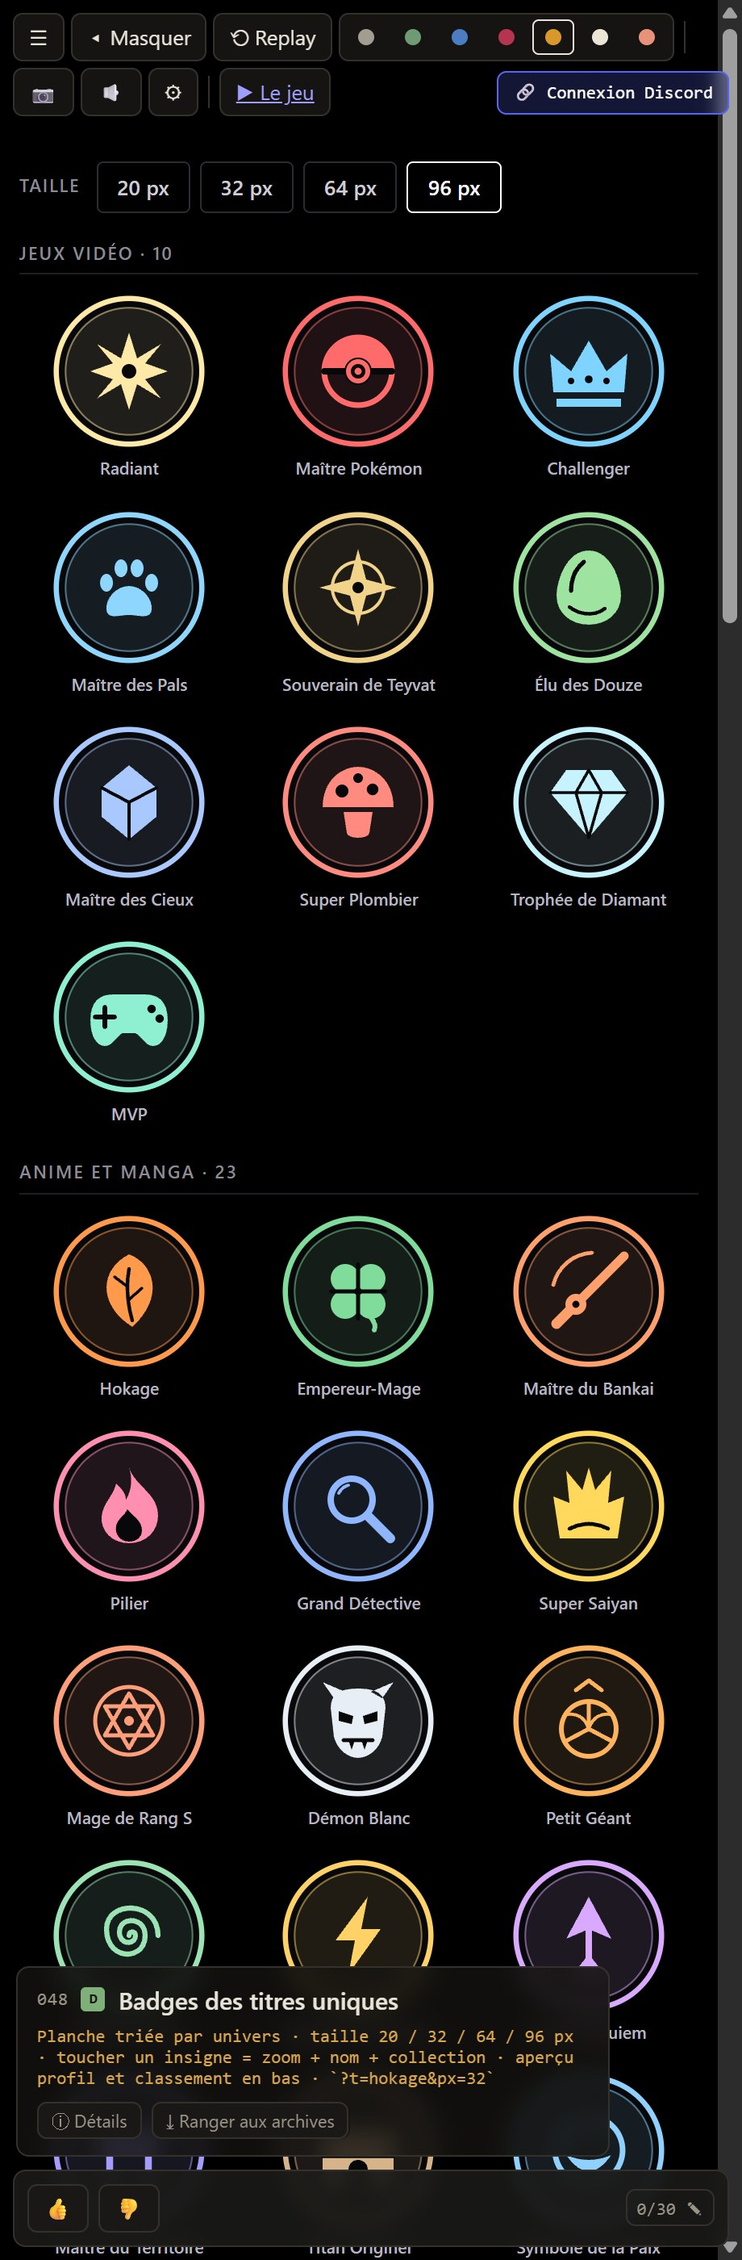
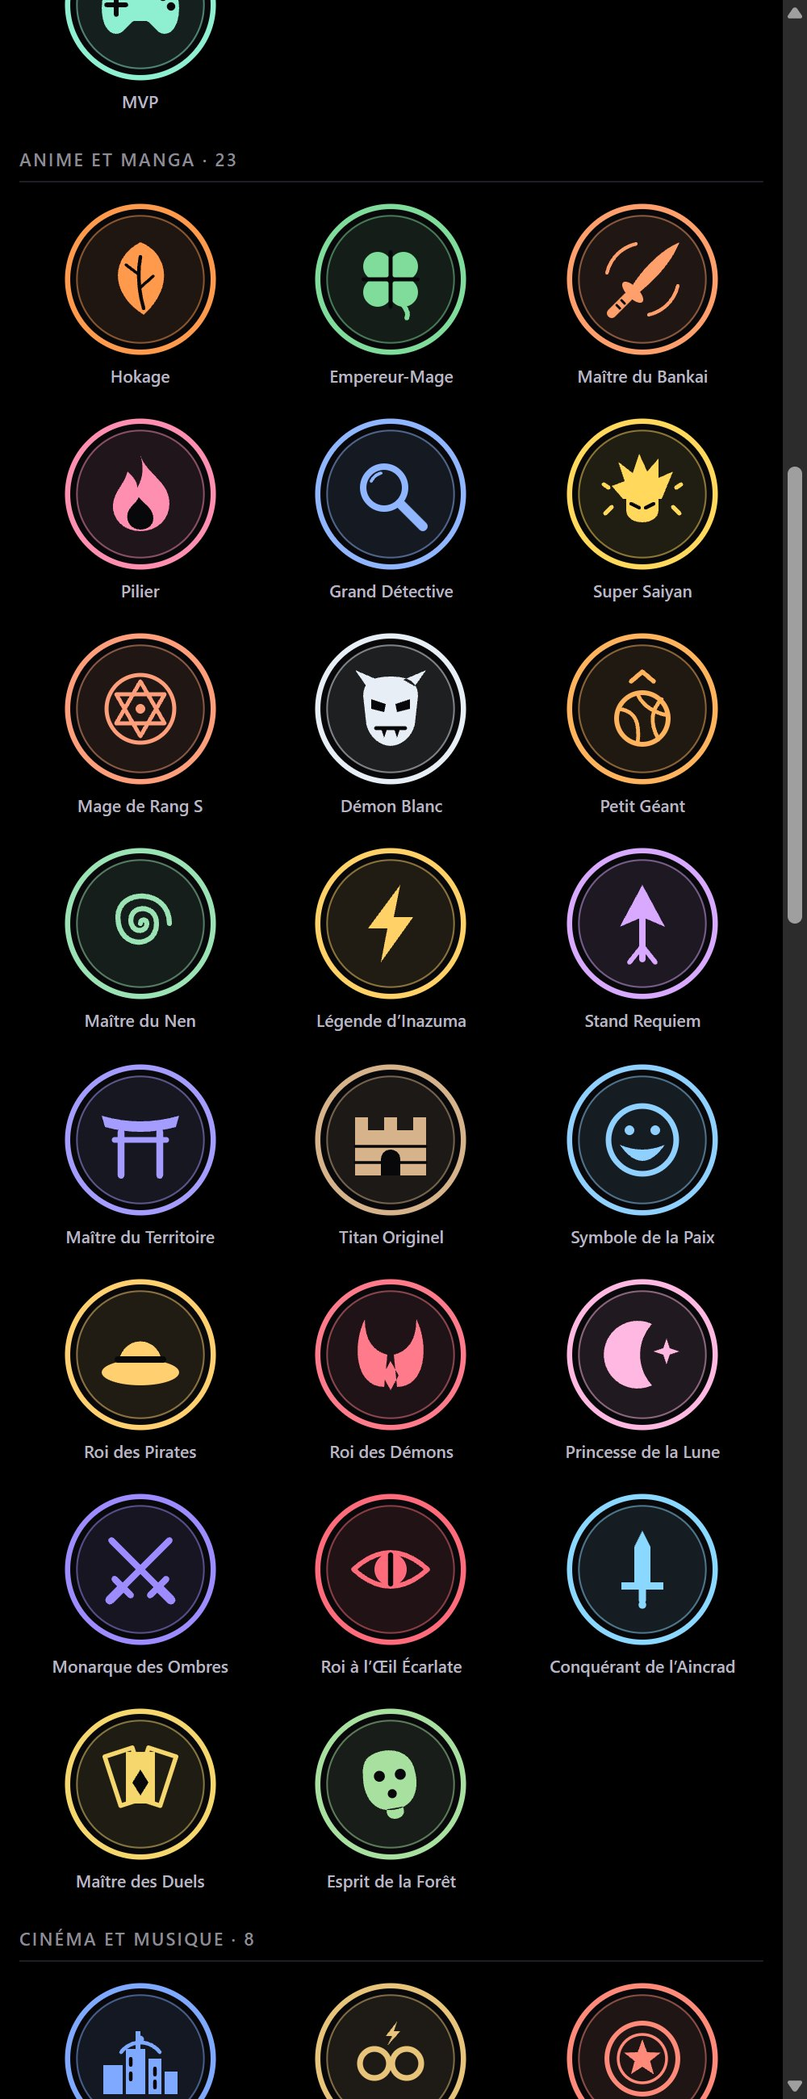
feat(badges): les badges du jeu en médaillons (gabarit du labo 048), 83 insignes des titres uniques repolis, section « Badges du jeu » au labo (patch v2.1.36)
Claude-Session: https://claude.ai/code/session_01VHcc2VtJ5Qtv191cfDaMbM

diff --git a/src/experiments/048-badges-titres-uniques/symboles.ts b/src/experiments/048-badges-titres-uniques/symboles.ts
@@ -3,27 +3,7 @@
  * ±24. Le médaillon (insigne()) les pose au centre dans la teinte du titre ; les « creux » sont en noir de médaillon.
  * Trait par défaut : 3, bouts ronds. Remplir = F / CF / EF ; trait = S / CS ; creux = K / CK / KS.
  */
-const NOIR = '#08080a';
-const F = (d: string) => `<path d="${d}" fill="currentColor" stroke="none"/>`;
-const S = (d: string, w = 3) => `<path d="${d}" stroke-width="${w}"/>`;
-const K = (d: string) => `<path d="${d}" fill="${NOIR}" stroke="none"/>`;
-const KS = (d: string, w = 2) => `<path d="${d}" stroke="${NOIR}" stroke-width="${w}"/>`;
-const CF = (x: number, y: number, r: number) => `<circle cx="${x}" cy="${y}" r="${r}" fill="currentColor" stroke="none"/>`;
-const CS = (x: number, y: number, r: number, w = 3) => `<circle cx="${x}" cy="${y}" r="${r}" stroke-width="${w}"/>`;
-const CK = (x: number, y: number, r: number) => `<circle cx="${x}" cy="${y}" r="${r}" fill="${NOIR}" stroke="none"/>`;
-const EF = (x: number, y: number, rx: number, ry: number) => `<ellipse cx="${x}" cy="${y}" rx="${rx}" ry="${ry}" fill="currentColor" stroke="none"/>`;
-const rot = (a: number, inner: string, cx = 0, cy = 0) => `<g transform="rotate(${a} ${cx} ${cy})">${inner}</g>`;
-const poly = (n: number, R: number, a0 = -90) =>
-  Array.from({ length: n }, (_, i) => {
-    const a = ((a0 + (360 / n) * i) * Math.PI) / 180;
-    return `${i ? 'L' : 'M'}${(R * Math.cos(a)).toFixed(1)},${(R * Math.sin(a)).toFixed(1)}`;
-  }).join(' ') + 'Z';
-const star = (n: number, R: number, r: number, a0 = -90) =>
-  Array.from({ length: n * 2 }, (_, i) => {
-    const a = ((a0 + (180 / n) * i) * Math.PI) / 180;
-    const rr = i % 2 ? r : R;
-    return `${i ? 'L' : 'M'}${(rr * Math.cos(a)).toFixed(1)},${(rr * Math.sin(a)).toFixed(1)}`;
-  }).join(' ') + 'Z';
+import { F, S, K, KS, CF, CS, CK, EF, rot, poly, star } from '../../game/badgeArt';
 const SIX = 'M5,-12 C-4,-10 -7,-2 -7,5 C-7,10 -4,13 0,13 C4,13 7,10 7,6 C7,2 4,-1 0,-1 C-3,-1 -6,1 -7,4';
 
 export const SYMBOLES: Record<string, string> = {
@@ -41,16 +21,23 @@ export const SYMBOLES: Record<string, string> = {
   // --- anime et manga
   leaf: F('M0,-23 C16,-17 22,4 2,22 C-20,8 -18,-14 0,-23Z') + KS('M0,-14 C-2,-4 -1,8 2,18', 2.2) + KS('M-1,-3 L-9,-9 M0,5 L8,-2', 1.8),
   clover: CF(-8, -8, 9) + CF(8, -8, 9) + CF(-8, 8, 9) + CF(8, 8, 9) + KS('M-17,0 H17 M0,-17 V17', 2.4) + S('M6,14 Q12,20 10,24', 3),
-  katana: S('M21,-21 L-6,6', 8) + CF(-8, 8, 7) + S('M-9,9 L-20,20', 7.5) + CK(-8, 8, 2.4),
+  katana:
+    F('M23,-23 C13,-19 1,-8 -7,5 L-3,9 C7,1 18,-10 23,-23Z') +
+    rot(-45, EF(-6, 8, 3.6, 8.5), -6, 8) +
+    S('M-9,11 L-19,21', 6) + KS('M-13,13 L-11,15 M-16,16 L-14,18', 1.6) +
+    S('M-22,-4 A24,24 0 0 1 -4,-22', 2.2) + S('M22,4 A24,24 0 0 1 4,22', 2.2),
   flame: F('M0,-24 C4,-12 18,-8 18,6 C18,16 10,23 0,23 C-10,23 -18,16 -17,6 C-16,-2 -10,-6 -8,-14 C-4,-10 -2,-8 -2,-4 C2,-10 2,-18 0,-24Z') + K('M0,22 C-6,22 -9,17 -8,12 C-7,8 -3,6 -1,2 C3,7 8,9 8,15 C8,19 5,22 0,22Z'),
   magnifier: CS(-4, -4, 13, 4) + S('M6,6 L20,20', 6) + S('M-12,-8 A9,9 0 0 1 -6,-13', 2),
-  spikes: F('M-4,24 C-14,10 -8,2 -14,-6 L-4,-4 L-10,-18 L2,-10 L2,-24 L10,-8 L18,-14 L14,2 L20,6 C14,10 12,16 8,24Z') + K('M-2,22 C-6,14 -2,10 0,4 C4,10 6,14 4,22Z'),
+  spikes:
+    F('M-12,3 L-19,-5 L-11,-8 L-15,-20 L-6,-13 L-2,-25 L3,-14 L10,-22 L10,-10 L19,-14 L12,3Z') +
+    F('M-10,1 H10 V10 C10,20 -10,20 -10,10Z') + KS('M-7,6 L-2,8.5 M7,6 L2,8.5', 2.2) +
+    S('M-23,12 L-19,8 M23,12 L19,8 M-24,-6 L-21,-4 M24,-6 L21,-4', 2.6),
   magiccircle: CS(0, 0, 21, 2.5) + S('M0,-17 L15,9 L-15,9Z M0,17 L-15,-9 L15,-9Z', 2.5) + CF(0, 0, 3),
   oni:
     F('M-17,-8 C-17,-18 -9,-20 0,-20 C9,-20 17,-18 17,-8 L15,10 C13,18 6,23 0,23 C-6,23 -13,18 -15,10Z M-15,-14 L-22,-24 L-8,-18Z M15,-14 L22,-24 L8,-18Z') +
     K('M-12,-6 L-3,-3 L-4,2 L-12,0Z M12,-6 L3,-3 L4,2 L12,0Z M-6,12 L-4,18 L-2,12Z M2,12 L4,18 L6,12Z') +
     KS('M-9,12 H9', 2.4),
-  volley: CS(0, 5, 17, 3) + S('M0,5 V-12 M0,5 L-15,13 M0,5 L15,13', 2.6) + S('M-14,-4 C-6,-5 -2,-1 0,5 M14,-4 C6,-5 2,-1 0,5', 2) + S('M-8,-19 L0,-25 L8,-19', 2.6),
+  volley: CS(0, 6, 16, 3) + S('M-3,-9 C0,-2 8,3 16,4 M-15,0 C-6,1 -1,6 -3,22 M12,-6 C6,0 4,8 10,19', 2.4) + S('M-7,-17 L0,-23 L7,-17', 2.8),
   spiral: S('M0,0 C0,-3 4,-3 4,0 C4,6 -6,6 -6,-2 C-6,-12 10,-12 10,0 C10,16 -14,16 -14,-4 C-14,-22 18,-22 18,0', 3.2),
   bolt: F('M6,-24 L-14,3 H-2 L-6,24 L14,-4 H2Z'),
   arrow: F('M0,-24 L14,2 L0,-4 L-14,2Z') + S('M0,-4 V22', 4) + S('M-8,24 L0,14 L8,24', 3),
@@ -67,14 +54,19 @@ export const SYMBOLES: Record<string, string> = {
   kodama:
     rot(-10, F('M-12,-18 C-4,-24 14,-22 16,-8 C18,6 12,16 0,16 C-14,16 -18,4 -16,-8 C-16,-12 -14,-16 -12,-18Z M-5,15 C-8,24 8,24 5,15Z') + CK(-6, -6, 3.4) + CK(7, -5, 3.4) + CK(0, 6, 2.8)),
   // --- cinéma et musique
-  skyline: F('M-22,22 V2 H-10 V22Z M-8,22 V-10 H4 V22Z M-3,-10 V-22 H1 V-10Z M6,22 V-2 H22 V22Z') + KS('M-2,-4 V2 M-2,8 V14 M13,6 V12', 2.4),
+  skyline:
+    S('M-12,-4 A15,15 0 0 1 12,-4', 2.4) + CF(0, -12, 2.2) +
+    F('M-23,22 V4 H-11 V22Z M-9,22 V-6 H3 V22Z M-3,-6 V-17 H0 V-6Z M5,22 V0 H13 V22Z M15,22 V8 H23 V22Z') +
+    KS('M-6,0 V4 M-6,9 V13 M9,6 V10 M9,14 V18', 2.2),
   glasses: CS(-10, 3, 9, 3.6) + CS(10, 3, 9, 3.6) + S('M-1,1 H1', 3) + F('M4,-23 L-3,-14 H1 L-2,-8 L6,-17 H2Z'),
   starshield: CS(0, 0, 22, 3) + CS(0, 0, 15, 1.8) + F(star(5, 12, 5)),
   vinyl: CS(0, 0, 22, 3) + CS(0, 0, 15, 1.6) + F('M0,-9 L6.5,0 L0,9 L-6.5,0Z') + S('M-17,-9 A19,19 0 0 1 -9,-17', 2),
   note: CF(-10, 15, 6) + CF(10, 11, 6) + S('M-4,15 V-14 M16,11 V-18', 3.4) + F('M-4,-14 L16,-18 V-10 L-4,-6Z'),
   mic: F('M-8,-21 a8,8 0 0 1 16,0 V0 a8,8 0 0 1 -16,0Z') + KS('M-8,-13 H8 M-8,-7 H8', 1.6) + S('M-14,-4 V0 A14,14 0 0 0 14,0 V-4', 3) + S('M0,14 V22 M-7,22 H7', 3),
-  gramophone: F('M-6,6 L8,-22 Q26,-22 24,0 Q22,10 8,10Z') + KS('M10,-14 Q16,-8 12,2', 2.2) + F('M-22,12 H4 V22 H-22Z') + S('M-8,8 V12', 4),
-  statuette: CF(0, -19, 4.5) + F('M-5,-13 H5 C8,-8 6,0 5,6 L6,14 H-6 L-5,6 C-6,0 -8,-8 -5,-13Z M-10,14 H10 V18 H-10Z M-14,18.5 H14 V23 H-14Z'),
+  gramophone:
+    F('M5.8,-23.2 L24.2,-4.8 L-7,6Z') + rot(45, EF(15, -14, 13, 5.6), 15, -14) + rot(45, K(`M6,-14 a9,3 0 1 0 18,0 a9,3 0 1 0 -18,0Z`), 15, -14) +
+    S('M-7,6 V13', 4) + F('M-19,14 H5 V22 H-19Z'),
+  statuette: CF(0, -18, 5.2) + F('M-7,-11 H7 C10,-4 6,2 5,7 L8,14 H-8 L-5,7 C-6,2 -10,-4 -7,-11Z M-11,14 H11 V18 H-11Z M-16,18.5 H16 V23 H-16Z') + KS('M-3,-6 V3 M3,-6 V3', 1.6),
   // --- sports de combat
   glove: F('M-16,-4 C-16,-18 -4,-22 6,-20 C16,-18 20,-8 18,2 C17,8 12,10 6,10 H-12Z M-14,13 H8 V22 H-14Z') + KS('M-6,-6 C0,-6 6,-4 8,2', 2.6),
   belt: F('M-24,-7 H-10 V7 H-24Z M10,-7 H24 V7 H10Z') + EF(0, 0, 13, 19) + CK(0, 0, 8) + CS(0, 0, 4.5, 2.2) + KS('M-17,0 H-24 M17,0 H24', 1),
@@ -104,10 +96,13 @@ export const SYMBOLES: Record<string, string> = {
   helmet: F('M-22,6 C-22,-12 -10,-22 4,-20 C16,-18 24,-8 24,4 V12 H-8 C-14,12 -22,12 -22,6Z M-8,15 H20 V21 H-8Z') + K('M6,-10 C14,-10 20,-6 22,0 V4 H2 C-2,4 -2,-10 6,-10Z') + KS('M-19,0 H-4', 2.6),
   tire: `<circle r="20" stroke-width="7" stroke-dasharray="5 4.2"/>` + CS(0, 0, 12, 2.2) + CS(0, 0, 6, 2.4) + CF(0, 0, 2.2),
   // --- nature et animaux
-  dino: F('M-14,22 C-14,12 -10,8 0,8 C10,8 14,12 14,22Z') + EF(-15, -2, 4, 7) + EF(-5, -11, 4, 7.5) + EF(5, -11, 4, 7.5) + EF(15, -2, 4, 7),
+  dino:
+    F('M-23,-2 C-23,-16 -9,-21 3,-19 C15,-17 24,-10 24,-2 V3 H-23Z') +
+    F('M-23,8 H21 C21,13 19,17 14,17 H-17 C-21,17 -23,13 -23,8Z') +
+    F('M-1,3 L2,9.5 L5,3Z M8,3 L11,9.5 L14,3Z M17,3 L19.5,8.5 L22,3Z') + CK(5, -9, 3.2) + CK(19, -8, 1.5),
   beetle: EF(0, 6, 12, 16) + CF(0, -14, 6) + KS('M0,-10 V22', 2) + S('M-12,0 L-22,-6 M-12,8 L-22,12 M-11,15 L-20,22 M12,0 L22,-6 M12,8 L22,12 M11,15 L20,22 M-3,-19 L-8,-24 M3,-19 L8,-24', 2.8),
   antlers: S('M-5,10 C-10,2 -16,-6 -15,-22 M-12,-3 L-22,-7 M-14,-13 L-8,-18', 3.4) + S('M5,10 C10,2 16,-6 15,-22 M12,-3 L22,-7 M14,-13 L8,-18', 3.4) + F('M-6,9 H6 L4,22 H-4Z'),
-  bird: F('M0,2 C-8,-14 -18,-14 -26,-8 C-20,-2 -14,4 -12,10 C-6,6 -3,8 0,14 C3,8 6,6 12,10 C14,4 20,-2 26,-8 C18,-14 8,-14 0,2Z M-3,10 L0,24 L3,10Z'),
+  bird: S('M-24,-8 C-14,-20 -5,-14 0,2 C5,-14 14,-20 24,-8', 4.6) + F('M-4.5,0 C-4.5,-6 4.5,-6 4.5,0 L0,23Z') + F('M-9,10 L0,18 L9,10 L0,22Z'),
   snake: S('M-14,-18 C8,-24 14,-6 -2,-2 C-18,2 -14,18 10,16', 5.4) + EF(14, 16, 5.5, 4.2) + S('M19,16 L24,18', 1.8) + CK(14, 15, 1.2),
   fish: F('M-22,0 C-12,-14 8,-14 14,0 C8,14 -12,14 -22,0Z M12,0 L24,-12 V12Z') + CK(-13, -2, 2.4) + KS('M-4,-10 C-1,-4 -1,4 -4,10', 2),
   burr: Array.from({ length: 12 }, (_, k) => rot(k * 30, S('M0,-12 V-23', 3.2))).join('') + CF(0, 0, 14) + CK(0, 2, 6.5) + EF(0, 3, 3.6, 4.4),

diff --git a/src/game/badgeArt.ts b/src/game/badgeArt.ts
@@ -1,0 +1,71 @@
+/**
+ * MÉDAILLONS DES BADGES (27/11, labo 048 validé par Hugo et Tom) — UNE source du gabarit : disque noir, double filet,
+ * teinte en accent, symbole au centre. Utilisé par `badgeIcon()` (profil, atelier, succès) et par le labo 048 (83 titres
+ * uniques). Repère des symboles : centré en (0,0), tient dans ±24 ; trait 3, bouts ronds ; lisible à 20 px.
+ * Remplir = F / CF / EF ; trait = S / CS ; creux (noir du médaillon) = K / CK / KS. Aucun logo officiel.
+ */
+export const NOIR = '#08080a';
+export const F = (d: string) => `<path d="${d}" fill="currentColor" stroke="none"/>`;
+export const S = (d: string, w = 3) => `<path d="${d}" stroke-width="${w}"/>`;
+export const K = (d: string) => `<path d="${d}" fill="${NOIR}" stroke="none"/>`;
+export const KS = (d: string, w = 2) => `<path d="${d}" stroke="${NOIR}" stroke-width="${w}"/>`;
+export const CF = (x: number, y: number, r: number) => `<circle cx="${x}" cy="${y}" r="${r}" fill="currentColor" stroke="none"/>`;
+export const CS = (x: number, y: number, r: number, w = 3) => `<circle cx="${x}" cy="${y}" r="${r}" stroke-width="${w}"/>`;
+export const CK = (x: number, y: number, r: number) => `<circle cx="${x}" cy="${y}" r="${r}" fill="${NOIR}" stroke="none"/>`;
+export const EF = (x: number, y: number, rx: number, ry: number) => `<ellipse cx="${x}" cy="${y}" rx="${rx}" ry="${ry}" fill="currentColor" stroke="none"/>`;
+export const rot = (a: number, inner: string, cx = 0, cy = 0) => `<g transform="rotate(${a} ${cx} ${cy})">${inner}</g>`;
+export const poly = (n: number, R: number, a0 = -90) =>
+  Array.from({ length: n }, (_, i) => {
+    const a = ((a0 + (360 / n) * i) * Math.PI) / 180;
+    return `${i ? 'L' : 'M'}${(R * Math.cos(a)).toFixed(1)},${(R * Math.sin(a)).toFixed(1)}`;
+  }).join(' ') + 'Z';
+export const star = (n: number, R: number, r: number, a0 = -90) =>
+  Array.from({ length: n * 2 }, (_, i) => {
+    const a = ((a0 + (180 / n) * i) * Math.PI) / 180;
+    const rr = i % 2 ? r : R;
+    return `${i ? 'L' : 'M'}${(rr * Math.cos(a)).toFixed(1)},${(rr * Math.sin(a)).toFixed(1)}`;
+  }).join(' ') + 'Z';
+
+const FLAME = 'M0,-24 C4,-12 18,-8 18,6 C18,16 10,23 0,23 C-10,23 -18,16 -17,6 C-16,-2 -10,-6 -8,-14 C-4,-10 -2,-8 -2,-4 C2,-10 2,-18 0,-24Z';
+
+/** Le médaillon : `symbole` = SVG du symbole (repère ±24), `teinte` = couleur d'accent. `px` : taille en pixels (sinon 100 % du parent). */
+export function medaillon(symbole: string, teinte: string, px?: number, cls = 'bd'): string {
+  const dim = px ? ` width="${px}" height="${px}"` : '';
+  return (
+    `<svg class="${cls}" viewBox="-50 -50 100 100"${dim} aria-hidden="true" style="color:${teinte}">` +
+    `<circle r="47" fill="${NOIR}" stroke="currentColor" stroke-width="3.4"/>` +
+    `<circle r="41" fill="currentColor" fill-opacity=".1" stroke="currentColor" stroke-opacity=".5" stroke-width="1.1"/>` +
+    `<g transform="scale(1.04)" fill="none" stroke="currentColor" stroke-width="3" stroke-linecap="round" stroke-linejoin="round">${symbole}</g>` +
+    `</svg>`
+  );
+}
+
+/** Les 10 badges du jeu (src/core/cosmetics.ts BADGES) : symbole + teinte, loin des teintes de rareté (src/core/rarity.ts). */
+export const BADGE_ART: Record<string, { sym: string; teinte: string }> = {
+  // 10 boosters : un sachet serti, étoile au centre
+  first: { teinte: '#6fd1c1', sym: F('M-13,-21 H13 V21 H-13Z') + KS('M-13,-13 H13 M-13,14 H13', 2) + K(star(5, 8, 3.4, -90)) },
+  // 100 boosters : deux sachets, un devant l'autre
+  p100: { teinte: '#a3b5ff', sym: S('M-8,-21 H16 V14', 3) + F('M-16,-14 H8 V21 H-16Z') + KS('M-16,-7 H8 M-16,15 H8', 2) + CK(-4, 4, 3.2) },
+  // 1 000 boosters : la coupe
+  p1000: { teinte: '#f2a0c4', sym: F('M-11,-20 H11 V-6 C11,6 -11,6 -11,-6Z') + S('M-11,-16 H-18 C-18,-6 -15,-3 -11,-4 M11,-16 H18 C18,-6 15,-3 11,-4', 2.8) + S('M0,4 V13', 4) + F('M-10,15 H10 V21 H-10Z') },
+  // album complet : le livre ouvert
+  full: { teinte: '#8fdc95', sym: S('M0,-14 C-6,-19 -14,-19 -21,-16 V15 C-14,12 -6,12 0,17 C6,12 14,12 21,15 V-16 C14,-19 6,-19 0,-14Z M0,-14 V17', 3) + S('M-14,-8 H-7 M-14,-2 H-7 M7,-8 H14 M7,-2 H14', 2) },
+  // 5 × 6★ : l'étoile pleine
+  mythic: { teinte: '#e3d4ff', sym: F(star(5, 24, 10.5, -90)) + CK(0, 1, 3.6) },
+  // Bébou secret : le cadenas
+  secret: { teinte: '#c77dff', sym: S('M-9,-3 V-11 A9,9 0 0 1 9,-11 V-3', 3.4) + F('M-14,-3 H14 V21 H-14Z') + CK(0, 8, 3.4) + KS('M0,9 V14', 3) },
+  // échangeur : deux flèches croisées
+  trade: { teinte: '#5fcfe8', sym: S('M-20,-9 H18 M10,-17 L18,-9 L10,-1', 3.4) + S('M20,9 H-18 M-10,1 L-18,9 L-10,17', 3.4) },
+  // contrat signé : la feuille, le sceau
+  contract: { teinte: '#e6dd6a', sym: F('M-14,-23 H5 L14,-14 V23 H-14Z') + KS('M5,-23 V-14 H14', 2) + KS('M-7,-8 H5 M-7,-1 H3', 2.6) + CK(3, 13, 5) + CF(3, 13, 2) },
+  // 7 jours : la flamme sur le calendrier
+  streak: { teinte: '#ff8a5c', sym: S('M-20,-12 H20 V21 H-20Z', 3) + S('M-11,-20 V-8 M11,-20 V-8', 3) + `<g transform="translate(0,6) scale(.45)">${F(FLAME)}</g>` },
+  // 5 000 cartes : une étagère de livres
+  half: { teinte: '#d6b38a', sym: S('M-18,-17 H-8 V17 H-18Z', 3) + S('M-5,-22 H5 V17 H-5Z', 3) + rot(14, S('M9,-17 H19 V17 H9Z', 3), 14, 17) + S('M-23,22 H23', 3.4) },
+};
+
+/** Médaillon d'un badge du jeu (repli : médaillon neutre vide). */
+export const badgeMedal = (id: string, px = 20): string => {
+  const a = BADGE_ART[id];
+  return medaillon(a?.sym ?? CS(0, 0, 14, 3), a?.teinte ?? '#cfcdd6', px);
+};

diff --git a/src/experiments/048-badges-titres-uniques/index.ts b/src/experiments/048-badges-titres-uniques/index.ts
@@ -1,6 +1,8 @@
 import type { Experiment, LabContext } from '../../core/Experiment';
 import { TITRES, type TitreUnique } from './data';
 import { SYMBOLES } from './symboles';
+import { BADGE_ART, medaillon } from '../../game/badgeArt';
+import { BADGES } from '../../core/cosmetics';
 
 /**
  * 048 — BADGES DES TITRES UNIQUES (27/11, demande de Hugo validée par Tom) : un insigne dessiné par titre unique (83),
@@ -13,14 +15,14 @@ import { SYMBOLES } from './symboles';
 
 /** Le même gabarit pour tous : seul le symbole et la teinte changent. */
 export function insigne(t: TitreUnique): string {
-  return (
-    `<svg class="b48" viewBox="-50 -50 100 100" aria-hidden="true" style="color:${t.teinte}">` +
-    `<circle r="47" fill="#08080a" stroke="currentColor" stroke-width="3.4"/>` +
-    `<circle r="41" fill="currentColor" fill-opacity=".1" stroke="currentColor" stroke-opacity=".5" stroke-width="1.1"/>` +
-    `<g transform="scale(1.04)" fill="none" stroke="currentColor" stroke-width="3" stroke-linecap="round" stroke-linejoin="round">${SYMBOLES[t.sym] ?? ''}</g>` +
-    `</svg>`
-  );
+  return medaillon(SYMBOLES[t.sym] ?? '', t.teinte, undefined, 'b48');
 }
+
+/** Les badges du jeu (BADGES de src/core/cosmetics.ts), en médaillon : même gabarit, via src/game/badgeArt.ts. */
+const insigneJeu = (id: string): string => {
+  const a = BADGE_ART[id];
+  return medaillon(a.sym, a.teinte, undefined, 'b48');
+};
 
 const collection = (setId: string) => {
   const s = setId.replace(/^(grp|sub):/, '').replace(/^jv-/, '').replace(/-/g, ' ');
@@ -40,6 +42,9 @@ const CSS = `
 .b48-c .b48 { flex: none; }
 .b48-c em { font-style: normal; font-size: 10.5px; line-height: 1.25; color: #b9b6c2; }
 .b48-c:active { background: #111; }
+.b48-pills { display: flex; flex-wrap: wrap; gap: 6px; margin-top: 14px; }
+.b48-pill { display: inline-flex; align-items: center; gap: 6px; padding: 2px 9px 2px 3px; border: 1px solid #2c2b33; border-radius: 4px; }
+.b48-pill i { font-style: normal; font: 500 10px/1 ui-monospace, monospace; letter-spacing: .04em; color: #b9b6c2; }
 .b48-sit { margin-top: 26px; border: 1px solid #1e1d24; border-radius: 6px; padding: 12px; background: #050506; max-width: 460px; }
 .b48-prof { display: flex; align-items: center; gap: 10px; padding-bottom: 10px; border-bottom: 1px solid #1e1d24; margin-bottom: 6px; }
 .b48-av { width: 38px; height: 38px; border-radius: 50%; border: 1px solid #2c2b33; background: #141418; flex: none; }
@@ -74,6 +79,13 @@ export default function create(): Experiment {
       ([20, 32, 64, 96] as const).map((p) => `<button data-px="${p}" class="${p === state.px ? 'on' : ''}">${p} px</button>`).join('') +
       `</div>`;
     const col = Math.max(state.px, 56) + 18;
+    const jeu =
+      `<div class="b48-h">Badges du jeu · ${BADGES.length}</div><div class="b48-grid" style="grid-template-columns:repeat(auto-fill,minmax(${col}px,1fr))">` +
+      BADGES.map((b) => `<div class="b48-c"><span style="width:${state.px}px;height:${state.px}px;display:block">${insigneJeu(b.id)}</span><em>${b.label}</em></div>`).join('') +
+      `</div>` +
+      `<div class="b48-sit b48-pills">` +
+      BADGES.map((b) => `<span class="b48-pill"><span style="width:20px;height:20px;display:block">${insigneJeu(b.id)}</span><i>${b.label}</i></span>`).join('') +
+      `</div>`;
     const planche = UNIVERS.map((u) => {
       const items = TITRES.filter((t) => t.univers === u);
       return (
@@ -90,7 +102,7 @@ export default function create(): Experiment {
       `<div class="b48-prof"><div class="b48-av"></div><div><b>Hugo</b><span class="b48-tit"><span style="width:24px;height:24px;display:block">${insigne(s)}</span>${s.nom}</span></div></div>` +
       rows.map((t, i) => `<div class="b48-row"><i>${i + 1}</i><span class="n"><span style="width:20px;height:20px;flex:none;display:block">${insigne(t)}</span>${['Hugo', 'Tom', 'Léa', 'Max', 'Inès'][i]} <small>${t.nom}</small></span><span class="s">${(4210 - i * 380).toLocaleString('fr-FR')}</span></div>`).join('') +
       `</div>`;
-    root.innerHTML = bar + planche + sit;
+    root.innerHTML = bar + jeu + planche + sit;
   };
 
   const zoom = (t: TitreUnique) => {

diff --git a/src/game/cosmeticArt.ts b/src/game/cosmeticArt.ts
@@ -13,6 +13,7 @@ import './cosmetiques.css';
 import type { Cosmetic, Matter } from '../core/cosmetics';
 import { titleStyleOf } from '../core/cosmetics';
 import { esc } from './ui';
+import { badgeMedal } from './badgeArt';
 
 // ───────────────────────── icônes au trait (grille 24, trait 1,6) ─────────────────────────
 const ICONS = {
@@ -33,24 +34,13 @@ const ICONS = {
   accent: 'M12 3s6 6.2 6 10.5a6 6 0 0 1-12 0C6 9.2 12 3 12 3z',
   vitrine: 'M4 8h5v10H4zM9.5 6h5v12h-5zM15 8h5v10h-5z',
   badge: 'M12 3l7 3v6c0 4.2-2.9 7.4-7 9c-4.1-1.6-7-4.8-7-9V6z',
-  // badges (mêmes identifiants qu'avant, src/core/cosmetics.ts BADGES)
-  'b-first': 'M7 4h10v16H7zM10 8h4M10 12h4',
-  'b-p100': 'M6 5h9v14H6zM9 3h9v14',
-  'b-p1000': 'M8 4h8v5a4 4 0 0 1-8 0zM8 6H5a3 3 0 0 0 3 3M16 6h3a3 3 0 0 1-3 3M12 13v4M8.5 20h7',
-  'b-full': 'M5 5h6a2 2 0 0 1 2 2v12a2 2 0 0 0-2-2H5zM19 5h-4a2 2 0 0 0-2 2M19 5v12h-4a2 2 0 0 0-2 2',
-  'b-mythic': 'M12 3l2.6 5.6 6.1.7-4.5 4.2 1.2 6-5.4-3-5.4 3 1.2-6L3.3 9.3l6.1-.7z',
-  'b-secret': 'M12 4v16M4 12h16M6.3 6.3l11.4 11.4M17.7 6.3L6.3 17.7',
-  'b-trade': 'M7 8h11l-3-3M17 16H6l3 3',
-  'b-contract': 'M6 4h9l3 3v13H6zM9 12h6M9 16h4M14 4v4h4',
-  'b-streak': 'M12 3c1 3.5 5 5.5 5 10a5 5 0 0 1-10 0c0-2 1-3.2 2-4.2c.3 1.6 1 2.4 2 2.7C10.5 9 11 5.5 12 3z',
-  'b-half': 'M4 6h4v13H4zM9 4h4v15H9zM14.5 7l3.8-1 3 12.5-3.8 1z',
 } as const;
 export type IconName = keyof typeof ICONS;
 /** Icône au trait (prend la couleur du texte). */
 export const icon = (name: IconName, size = 16) =>
   `<svg class="ic" viewBox="0 0 24 24" width="${size}" height="${size}" aria-hidden="true"><path d="${ICONS[name]}"/></svg>`;
-/** Icône d'un badge (repli : l'écusson). */
-export const badgeIcon = (id: string, size = 13) => icon((`b-${id}` in ICONS ? `b-${id}` : 'badge') as IconName, size);
+/** Badge : le médaillon (src/game/badgeArt.ts, même gabarit que le labo 048). 20 px par défaut ; repli : médaillon neutre. */
+export const badgeIcon = (id: string, size = 20) => badgeMedal(id, size);
 
 // ───────────────────────────────── tracés des cadres ─────────────────────────────────
 const TAU = Math.PI * 2;

diff --git a/src/game/cosmetiques.css b/src/game/cosmetiques.css
@@ -68,8 +68,11 @@ span.pf-title.ts.ts-light { --t-col: var(--tc); padding: 0; border-width: 0; bac
 @keyframes ac-drift { from { translate: -14px 0; } to { translate: 14px 0; } }
 @keyframes ac-flick { 0%, 40%, 100% { opacity: 1; } 43% { opacity: 0.3; } 46% { opacity: 1; } 70% { opacity: 0.85; } 72% { opacity: 0.35; } 75% { opacity: 1; } }
 
-/* ── badges : une icône au trait à la place du glyphe ── */
-.pf-badge .ic { color: var(--ink-2); }
+/* ── badges : le médaillon (src/game/badgeArt.ts), 20 px, aligné au centre du libellé ── */
+.bd { display: inline-block; flex: none; width: 20px; height: 20px; vertical-align: -0.3em; }
+span.pf-badge { padding: 2px 9px 2px 3px; gap: 6px; line-height: 1; }
+span.pf-badge > .bd { margin: 0; }
+.sc-cos .bd { display: inline-block; width: 16px; height: 16px; vertical-align: -0.28em; }
 
 /* ── page Profil : la photo et son cadre dessiné (remplace l'anneau en `box-shadow` et le calque `.pf-fx`) ── */
 .pf-ava-wrap .pf-ring.cf { display: block; width: 92px; height: 92px; margin: 14px 26px 14px 22px; }

diff --git a/src/game/updates.data.ts b/src/game/updates.data.ts
@@ -71,6 +71,12 @@ export const UPDATES: UpdateMonth[] = [
         ],
       },
       {
+        date: '27 nov.', title: 'Des badges en médaillons', tag: 'amélioré',
+        points: [
+          '🏅 Les badges du profil deviennent des médaillons dessinés (booster, coupe, livre, étoile, cadenas, flamme…), chacun avec sa teinte.',
+        ],
+      },
+      {
         date: '27 nov.', title: 'Plus pratique partout : collection, marché, forge, amis', tag: 'amélioré',
         points: [
           '📚 Collection : une rangée « Presque finis » en tête des albums, avec ceux où il ne te manque que 1 à 3 cartes (« −2 » sur la pochette).',

diff --git a/src/game/updates.en.ts b/src/game/updates.en.ts
@@ -36,6 +36,12 @@ export const UPDATES_EN: UpdateMonth[] = [
         ],
       },
       {
+        date: '27 Nov', title: 'Badges become medallions', tag: 'amélioré',
+        points: [
+          '🏅 Profile badges are now drawn medallions (booster, cup, book, star, padlock, flame…), each with its own tint.',
+        ],
+      },
+      {
         date: '27 Nov', title: 'Handier everywhere: collection, market, forge, friends', tag: 'amélioré',
         points: [
           '📚 Collection: an “Almost done” row at the top of Albums, with the albums where you’re only 1 to 3 cards short (“−2” on the cover).',
